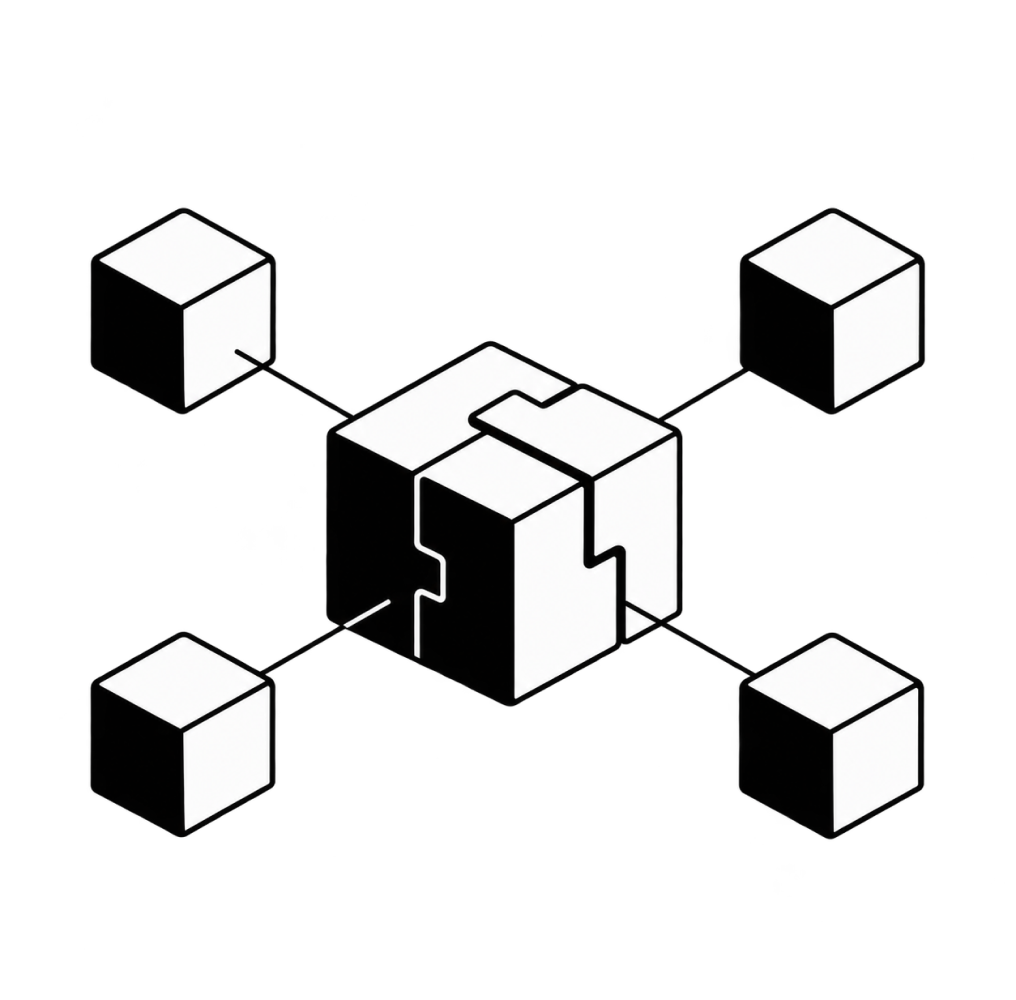
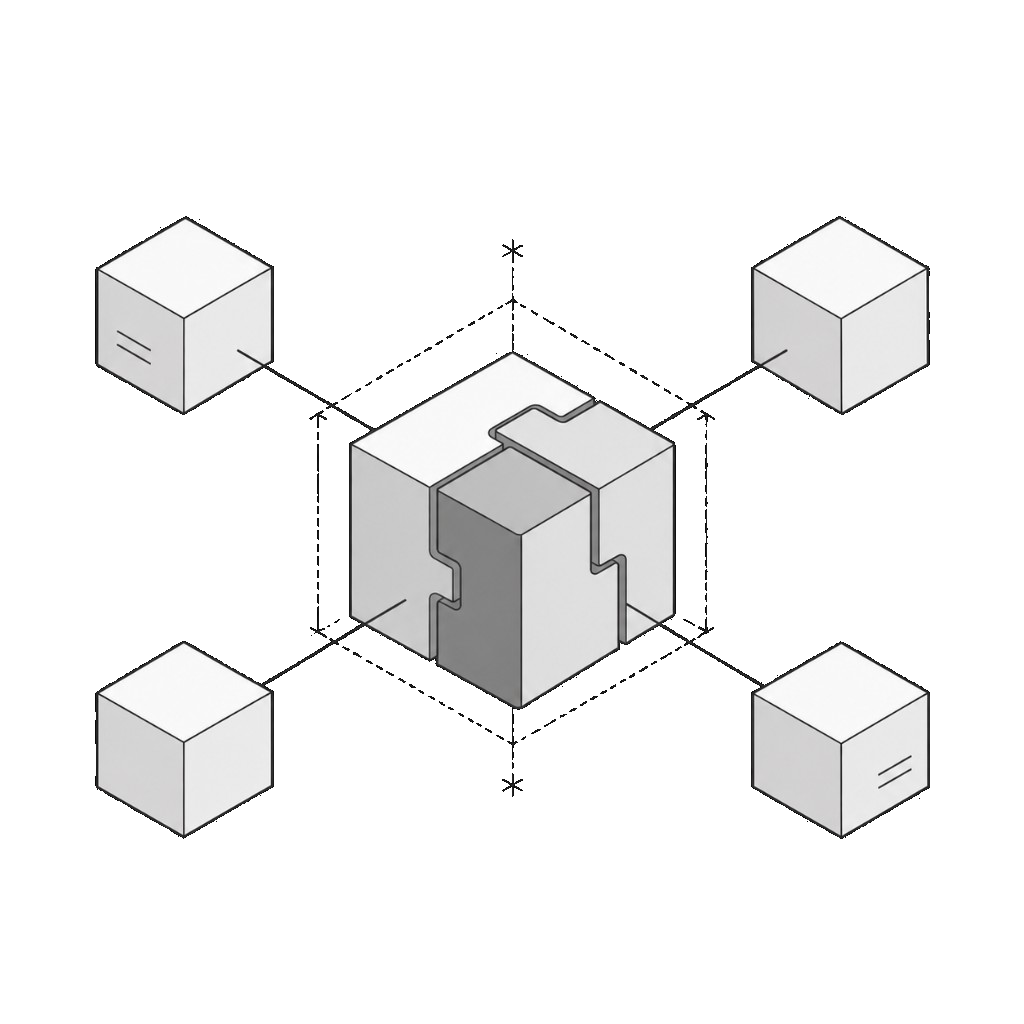
Replace the product carousel drawings and keep the cards upright on the page gray.

diff --git a/src/content/products.ts b/src/content/products.ts
@@ -83,7 +83,7 @@ export const PRODUCTS: Product[] = [
     homeBody:
       "Exception Resolution gathers the evidence across systems and moves the case to the team that can close it. A missing settlement, a dispute, or a failed refund arrives with its cause, its owner, and the next action already attached.",
     icon: "venn",
-    headline: "The intelligence layer for every unresolved payment.",
+    headline: "Every unresolved payment arrives with its cause and its owner.",
     lede: "Exception Resolution turns payment breaks, disputes, and chargebacks into structured decisions that move to the right outcome.",
     problem: [
       "Payment exceptions rarely belong to one system. A missing settlement, duplicate transaction, failed refund, or disputed charge can involve a processor, merchant, bank, ledger, and customer support team at the same time.",
@@ -179,7 +179,7 @@ export const PRODUCTS: Product[] = [
     homeBody:
       "Risk Signals connects velocity, counterparties, and prior decisions so an investigation starts with its context attached. Patterns across accounts, merchants, and instruments surface before they become a loss the team has to reconstruct.",
     icon: "octagon",
-    headline: "The intelligence layer for emerging payment risk.",
+    headline: "Name the pattern before it becomes the loss.",
     lede: "Risk Signals helps payment teams identify behavioral patterns, investigate suspicious activity, and coordinate action before risk becomes loss.",
     problem: [
       "Payment risk does not arrive as a single event. It emerges through patterns across transactions, accounts, merchants, devices, geographies, and operational behavior.",
@@ -227,7 +227,7 @@ export const PRODUCTS: Product[] = [
     homeBody:
       "Close Orchestration lines up reconciled records, open exceptions, approvals, and evidence so the period confirms what the business already knows. Unresolved work carries its context into the next period, so the close starts from the last one instead of a blank sheet.",
     icon: "squares",
-    headline: "The intelligence layer that carries the close forward.",
+    headline: "The close confirms what the books already hold.",
     lede: "Close Orchestration coordinates the records, controls, approvals, and decisions required to move from operational activity to a confident financial close.",
     problem: [
       "The close becomes difficult when financial truth is assembled manually from systems that were never designed to work together. Teams chase missing records, validate exceptions, request approvals, and reconcile changes across spreadsheets and email.",

diff --git a/src/app/ProductHeroCarousel.tsx b/src/app/ProductHeroCarousel.tsx
@@ -13,15 +13,16 @@ export default function ProductHeroCarousel({ currentSlug }: { currentSlug: stri
   );
 
   const slideArt: Record<string, string> = {
-    "settlement-mesh": "/products/match-iq.png?v=2",
-    "exception-resolution": "/products/exception-resolution.png",
-    "control-views": "/products/control-views.png",
-    "close-orchestration": "/products/close-orchestration.png",
+    "settlement-mesh": "/products/match-iq.png?v=3",
+    "exception-resolution": "/products/exception-resolution.png?v=4",
+    "control-views": "/products/control-views.png?v=3",
+    "risk-signals": "/products/risk-signals.png?v=3",
+    "close-orchestration": "/products/close-orchestration.png?v=5",
   };
 
   const slides = PRODUCTS.map((item) =>
     slideArt[item.slug] ? (
-      <div key={item.slug} className="relative h-full w-full bg-transparent">
+      <div key={item.slug} className="relative h-full w-full bg-[#E4E4E4]">
         {/* eslint-disable-next-line @next/next/no-img-element */}
         <img
           src={slideArt[item.slug]}
@@ -30,7 +31,7 @@ export default function ProductHeroCarousel({ currentSlug }: { currentSlug: stri
         />
       </div>
     ) : (
-      <div key={item.slug} className="h-full w-full bg-white" />
+      <div key={item.slug} className="h-full w-full bg-[#E4E4E4]" />
     ),
   );
 

diff --git a/src/components/ui/skiper49.tsx b/src/components/ui/skiper49.tsx
@@ -14,7 +14,6 @@ import "swiper/css/effect-coverflow";
 import "swiper/css/pagination";
 import "swiper/css/navigation";
 import "swiper/css";
-import "swiper/css/effect-cards";
 
 import { cn } from "@/lib/utils";
 
@@ -81,7 +80,7 @@ const Carousel_003 = ({
 
   .Carousal_003 .swiper-slide {
     box-sizing: border-box;
-    background-color: transparent;
+    background-color: #E4E4E4;
     background-position: center;
     background-size: cover;
     width: clamp(220px, 28vw, 420px);
@@ -181,7 +180,7 @@ const Carousel_003 = ({
           centeredSlides={true}
           loop={false}
           coverflowEffect={{
-            rotate: 40,
+            rotate: 0,
             stretch: 0,
             depth: 100,
             modifier: 1,
